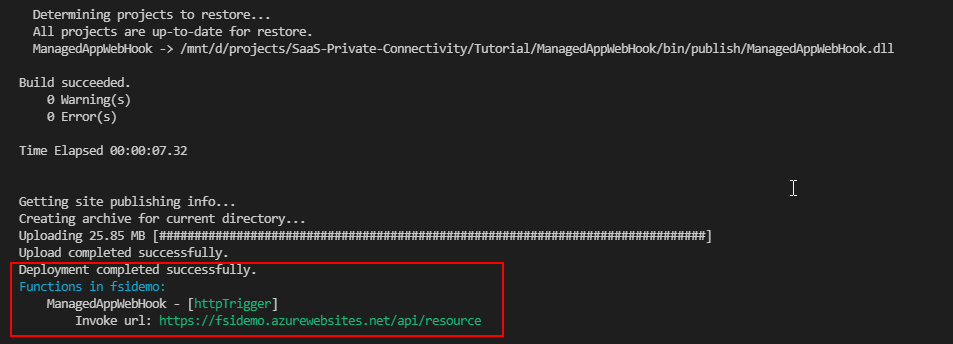
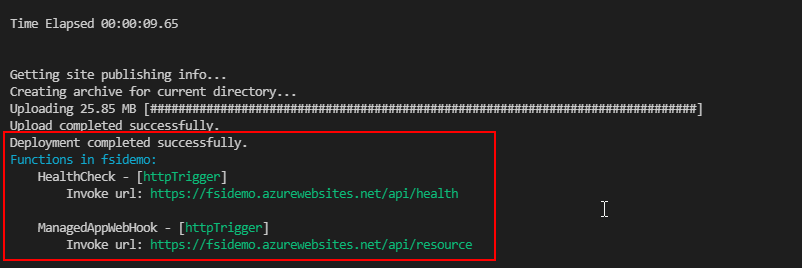
doc updates

Changed region(s): [[0.0, 0.209, 0.8728, 0.9851], [0.0, 0.0299, 0.9352, 0.1791]]

diff --git a/Tutorial/tutorial.md b/Tutorial/tutorial.md
@@ -18,13 +18,12 @@ The [sample function app][sample-application] used in this tutorial is a simple 
 Use [git][] to clone the sample application to your development environment:
 
 ```console
-git clone https://github.com/Azure-Samples/azure-voting-app-redis.git
-```
+git clone https://github.com/Azure/SaaS-Private-Connectivity.git
 
 Change into the cloned directory.
 
 ```console
-cd azure-voting-app-redis
+cd Tutorial
 ```
 
 In this tutorial, you learn how to:
@@ -41,96 +40,109 @@ In this tutorial, you learn how to:
 In Azure, you allocate related resources to a resource group. Create a resource group by using [az group create](/cli/azure/group#az_group_create). The following example creates a resource group named *demoResourceGroup* in the *northeurope* location (region). 
 
 ```
-az group create --name demoResourceGroup --location northeurope
+az group create --name rg-tutorial --location northeurope
 ```
 
-## Deploy a new AKS cluster
+## Deploy needed Azure Components
 
-You'll now deploy a new AKS cluster, to simulate having an existing AKS cluster that you want to enable the AGIC add-on for.  
+You'll now deploy the components needed to support the Notification Webhook.
 
-In the following example, you'll be deploying a new AKS cluster named *myCluster* using [Azure CNI](../aks/concepts-network.md#azure-cni-advanced-networking) and [Managed Identities](../aks/use-managed-identity.md) in the resource group you created, *myResourceGroup*.
+- App Service Plan
+- Azure MySql
+- Storage Account
+- Log Analytics
+- Application Insights
+- Virtual Network (not required directly but will be used in later tutorial)
 
-```azurecli-interactive
-az aks create -n myCluster -g myResourceGroup --network-plugin azure --enable-managed-identity 
+The templates to deploy these component have been provided as an ARM template or Bicep templates
+
+### ARM deployment
+
+Update the azure.parameters.json file if required then deploy using:
+
+```
+cd /templates/arm
+
+az deployment group create -g rg-tutorial --template-file azuredeploy.json --parameters ./azure.parameters.json administratorLoginPassword="<enter login password value>"
+```
+ 
+
+### Bicep deployment
+
+
+```
+cd /templates/bicep
+
+az deployment group create -g rg-tutorial -f ./main.bicep
 ```
 
-To configure additional parameters for the `az aks create` command, visit references [here](/cli/azure/aks#az_aks_create). 
+Once deployed there are some values that will be required in subsequent steps which can be found in the outputs from the template deployments for example:
 
-## Deploy a new Application Gateway 
-
-You'll now deploy a new Application Gateway, to simulate having an existing Application Gateway that you want to use to load balance traffic to your AKS cluster, *myCluster*. The name of the Application Gateway will be *myApplicationGateway*, but you will need to first create a public IP resource, named *myPublicIp*, and a new virtual network called *myVnet* with address space 11.0.0.0/8, and a subnet with address space 11.1.0.0/16 called *mySubnet*, and deploy your Application Gateway in *mySubnet* using *myPublicIp*. 
-
-When using an AKS cluster and Application Gateway in separate virtual networks, the address spaces of the two virtual networks must not overlap. The default address space that an AKS cluster deploys in is 10.0.0.0/8, so we set the Application Gateway virtual network address prefix to 11.0.0.0/8. 
-
-```azurecli-interactive
-az network public-ip create -n myPublicIp -g MyResourceGroup --allocation-method Static --sku Standard
-az network vnet create -n myVnet -g myResourceGroup --address-prefix 11.0.0.0/8 --subnet-name mySubnet --subnet-prefix 11.1.0.0/16 
-az network application-gateway create -n myApplicationGateway -l canadacentral -g myResourceGroup --sku Standard_v2 --public-ip-address myPublicIp --vnet-name myVnet --subnet mySubnet
+```
+    "outputs": {
+      "appSvcResourceId": {
+        "type": "String",
+        "value": "/subscriptions/<subscriptionId>/resourceGroups/rg-tutorial/providers/Microsoft.Web/serverfarms/fsidemo-88dc-appsvc"
+      },
+      "insightsKey": {
+        "type": "String",
+        "value": "<key value>"
+      },
+      "insightsName": {
+        "type": "String",
+        "value": "fsidemo-88dc-insights"
+      },
+      "resourceGroup": {
+        "type": "String",
+        "value": "rg-tutorial"
+      },
+      "storageAccountName": {
+        "type": "String",
+        "value": "fsidemo88dcsa"
+      }
 ```
 
-> [!NOTE]
-> Application Gateway Ingress Controller (AGIC) add-on **only** supports Application Gateway v2 SKUs (Standard and WAF), and **not** the Application Gateway v1 SKUs. 
 
-## Enable the AGIC add-on in existing AKS cluster through Azure CLI 
+## Deploy the Function App
+The Function App will be deployed to the App Service Plan created in the last step.  The http trigger based function to listen for webhook notifications will then be deployed to this function app.
 
-If you'd like to continue using Azure CLI, you can continue to enable the AGIC add-on in the AKS cluster you created, *myCluster*, and specify the AGIC add-on to use the existing Application Gateway you created, *myApplicationGateway*.
+```
+cd /Tutorial/ManagedAppWebHook
 
-```azurecli-interactive
-appgwId=$(az network application-gateway show -n myApplicationGateway -g myResourceGroup -o tsv --query "id") 
-az aks enable-addons -n myCluster -g myResourceGroup -a ingress-appgw --appgw-id $appgwId
+```
+In order to deploy the function app use the following:
+```
+resourceGroup=<resouregroup from outputs>
+storageAccount=<storageAccount Name from outputs>
+plan=<appSvcResourceId from outputs>
+insights=<insightsName from outputs>
+functionApp=fsidemo
+
+az functionapp create --name $functionApp -g $resoruceGroup -s $storageAccount --app-insights $insights --os-type Linux --runtime dotnet --plan $plan --functions-version 3
+
+```
+The function app will be created and can be viewed in the Azure portal 
+
+![functionApp](../images/function-publish13.png)
+
+Deploy the function
+
+```
+func azure functionapp publish $functionApp
 ```
 
-## Enable the AGIC add-on in existing AKS cluster through Portal 
+The package file will be created and deployed to your function app:
+![functionApp](../images/function-publish15.png)
 
-If you'd like to use Azure portal to enable AGIC add-on, go to [(https://aka.ms/azure/portal/aks/agic)](https://aka.ms/azure/portal/aks/agic) and navigate to your AKS cluster through the Portal link. From there, go to the Networking tab within your AKS cluster. You'll see an Application Gateway ingress controller section, which allows you to enable/disable the ingress controller add-on using the Portal UI. Check the box next to "Enable ingress controller", and select the Application Gateway you created, *myApplicationGateway* from the dropdown menu. 
 
-![Application Gateway Ingress Controller Portal](./media/tutorial-ingress-controller-add-on-existing/portal-ingress-controller-add-on.png)
+## Check that the function is reachable
 
-## Peer the two virtual networks together
+Now that the Function has been deployed it can be verified using the health url 
 
-Since we deployed the AKS cluster in its own virtual network and the Application Gateway in another virtual network, you'll need to peer the two virtual networks together in order for traffic to flow from the Application Gateway to the pods in the cluster. Peering the two virtual networks requires running the Azure CLI command two separate times, to ensure that the connection is bi-directional. The first command will create a peering connection from the Application Gateway virtual network to the AKS virtual network; the second command will create a peering connection in the other direction.
-
-```azurecli-interactive
-nodeResourceGroup=$(az aks show -n myCluster -g myResourceGroup -o tsv --query "nodeResourceGroup")
-aksVnetName=$(az network vnet list -g $nodeResourceGroup -o tsv --query "[0].name")
-
-aksVnetId=$(az network vnet show -n $aksVnetName -g $nodeResourceGroup -o tsv --query "id")
-az network vnet peering create -n AppGWtoAKSVnetPeering -g myResourceGroup --vnet-name myVnet --remote-vnet $aksVnetId --allow-vnet-access
-
-appGWVnetId=$(az network vnet show -n myVnet -g myResourceGroup -o tsv --query "id")
-az network vnet peering create -n AKStoAppGWVnetPeering -g $nodeResourceGroup --vnet-name $aksVnetName --remote-vnet $appGWVnetId --allow-vnet-access
 ```
-
-## Deploy a sample application using AGIC 
-
-You'll now deploy a sample application to the AKS cluster you created that will use the AGIC add-on for Ingress and connect the Application Gateway to the AKS cluster. First, you'll get credentials to the AKS cluster you deployed by running the `az aks get-credentials` command. 
-
-```azurecli-interactive
-az aks get-credentials -n myCluster -g myResourceGroup
-```
-
-Once you have the credentials to the cluster you created, run the following command to set up a sample application that uses AGIC for Ingress to the cluster. AGIC will update the Application Gateway you set up earlier with corresponding routing rules to the new sample application you deployed.  
-
-```azurecli-interactive
-kubectl apply -f https://raw.githubusercontent.com/Azure/application-gateway-kubernetes-ingress/master/docs/examples/aspnetapp.yaml 
-```
-
-## Check that the application is reachable
-
-Now that the Application Gateway is set up to serve traffic to the AKS cluster, let's verify that your application is reachable. You'll first get the IP address of the Ingress. 
-
-```azurecli-interactive
-kubectl get ingress
-```
-
-Check that the sample application you created is up and running by either visiting the IP address of the Application Gateway that you got from running the above command or check with `curl`. It may take Application Gateway a minute to get the update, so if the Application Gateway is still in an "Updating" state on Portal, then let it finish before trying to reach the IP address. 
-
-## Clean up resources
-
-When no longer needed, remove the resource group, application gateway, and all related resources.
-
-```azurecli-interactive
-az group delete --name myResourceGroup 
+https://<azure website host>/api/health
 ```
 
 ## Next steps
+
+Deploy a sample application [Tutorial2](./tutorial-sampleapp.md)
